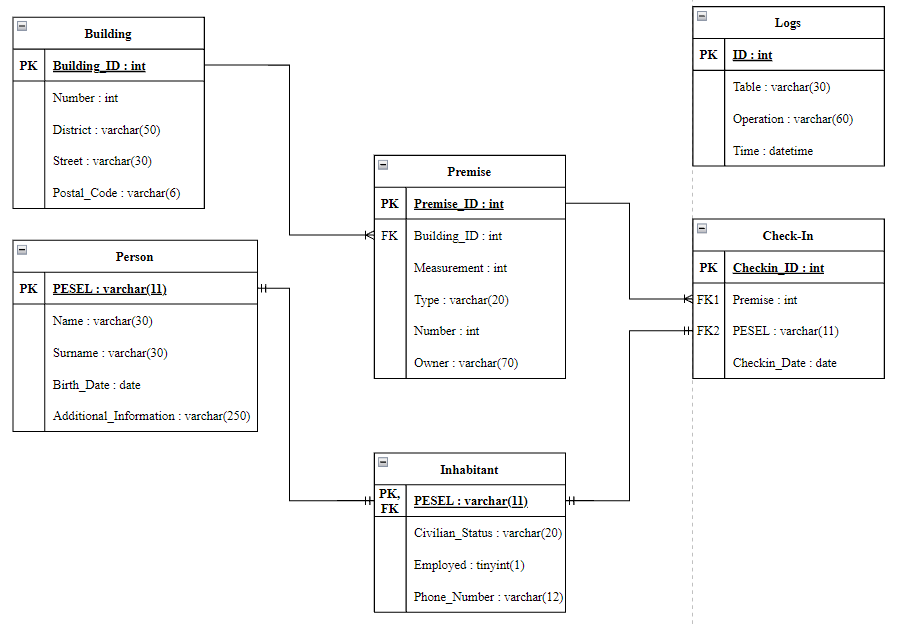
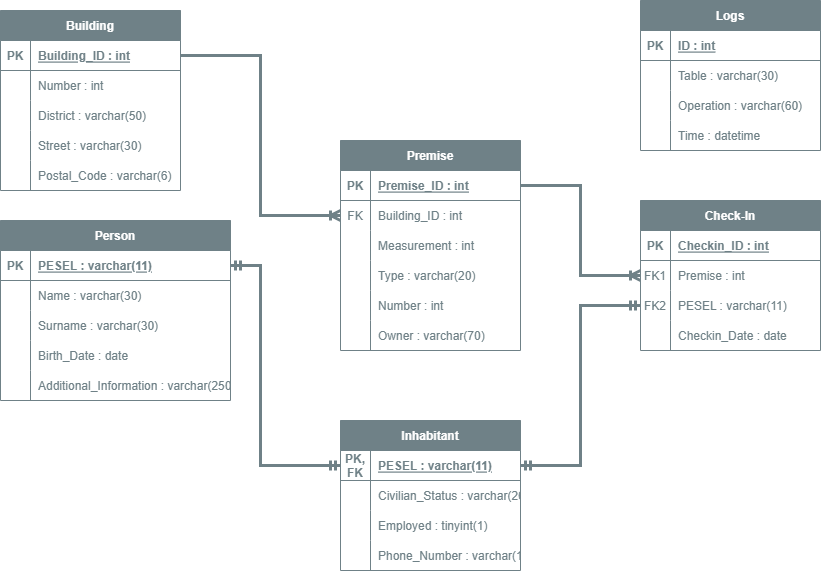
Updated readme and schemes

Changed region(s): [[0.0, 0.0, 1.0, 1.0], [0.7613, 0.0, 1.0, 0.268]]

diff --git a/README.md b/README.md
@@ -1,1 +1,19 @@
 # Database-Project
+# Local Registration Database
+
+A MySQL database project created as of a private contract and a tool for getting experience with databases.    
+
+# About
+
+The main goal of the database is to support the management of registrations locally in the city. It is also a good tool for learning the basics of how MySQL databases work and their basic functionalities.
+
+Database tracks the history of all check-ins which took place, registered buildings with premises inside them and also inhabitants registered in property described by the registration.
+
+# Database scheme
+
+The first step of the project was to create an entity relationship schema as to see which entities do we need, what attributes does every entity needs and how they should be connected with each other. The final ER diagram looks like this.
+
+<br /> 
+
+![ERDiagram](schemes/scheme.png)
+
